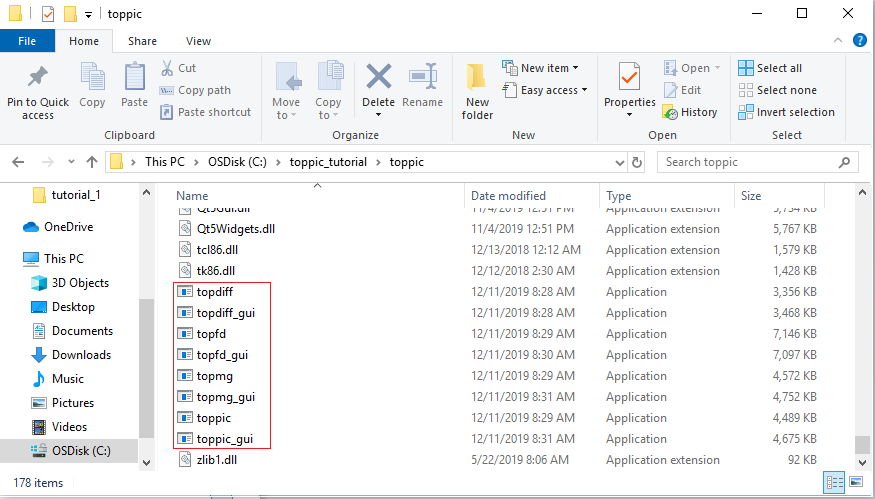
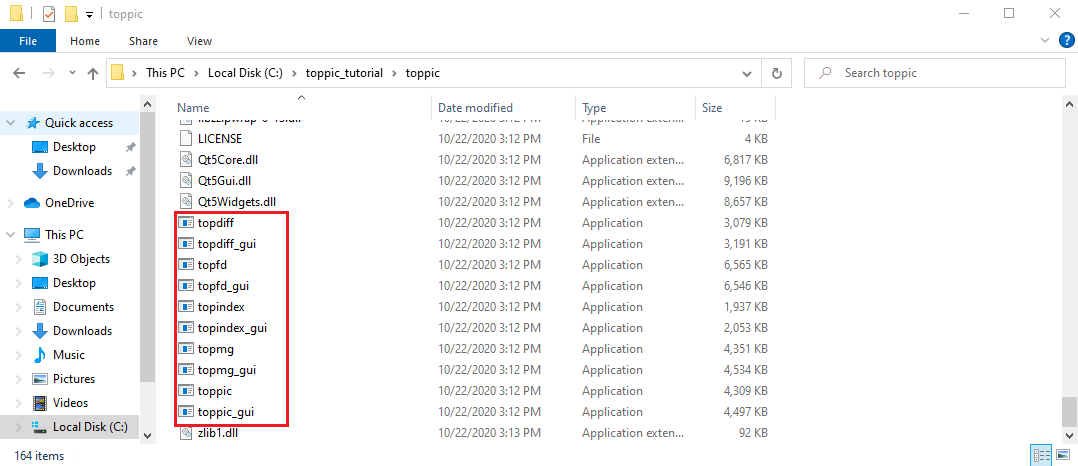
added topfd and topindex information

Changed region(s): [[0.0, 0.0, 1.0, 1.0], [0.8331, 0.3605, 0.864, 0.4206], [0.3394, 0.3605, 0.3703, 0.3906]]

diff --git a/tutorial.html b/tutorial.html
@@ -142,6 +142,52 @@
            style="border: #00008B 1px solid;"/></p>
       </p>
 
+      <h4 class="sectionTitle">4.2.1 Index file generation</h4>
+      <p>We use <b>TopIndex</b> to generate index files from the protein database. It will speed up the processing time of TopPIC and TopMG.</p>
+      <ol class="textList">
+        <li> Double click the executable file <code>topindex_gui.exe</code> in the folder
+          <code>C:\toppic_tutorial\toppic</code>.</li>
+        <li> Add the file <code>c:\toppic_tutorial\tutorial_1\uniprot-st.fasta</code>.</li>
+        <li> Select <code>C57</code> as the fixed modification. </li>
+        <li> Check the checkbox <code>Decoy database</code>. </li>
+        <li> Click to the button "Start" to generate index files.</li>
+      </ol>
+      <p>
+        The screenshot of <code>topindex_gui</code> is shown below.
+      </p>
+      <p><img src="./images/topindex_1.png" height="400" width="600"
+           style="border: #00008B 1px solid;"/>
+      </p>
+      <p>
+          TopIndex generates a folder <code>C:\toppic_tutorial\tutorial_1\uniprot-st.fasta_idx</code> containing multiple index files:
+          <ol class="textList">
+            <li>Eight files containing index for proteins without PTM:
+              <pre>C:\toppic_tutorial\tutorial_1\uniprot-st.fasta_idx\zero_ptm_term_index_C57_N_NME_NMEA_MA_FILE_15_decoy0</pre>
+              <pre>C:\toppic_tutorial\tutorial_1\uniprot-st.fasta_idx\zero_ptm_term_index_C57_N_NME_NMEA_MA_FILE_15_decoy1</pre>
+              <pre>C:\toppic_tutorial\tutorial_1\uniprot-st.fasta_idx\zero_ptm_rev_term_index_C57_N_NME_NMEA_MA_FILE_15_decoy0</pre>
+              <pre>C:\toppic_tutorial\tutorial_1\uniprot-st.fasta_idx\zero_ptm_rev_term_index_C57_N_NME_NMEA_MA_FILE_15_decoy1</pre>
+              <pre>C:\toppic_tutorial\tutorial_1\uniprot-st.fasta_idx\zero_ptm_rev_diag_index_C57_N_NME_NMEA_MA_FILE_15_decoy0</pre>
+              <pre>C:\toppic_tutorial\tutorial_1\uniprot-st.fasta_idx\zero_ptm_rev_diag_index_C57_N_NME_NMEA_MA_FILE_15_decoy1</pre>
+              <pre>C:\toppic_tutorial\tutorial_1\uniprot-st.fasta_idx\zero_ptm_diag_index_C57_N_NME_NMEA_MA_FILE_15_decoy0</pre>
+              <pre>C:\toppic_tutorial\tutorial_1\uniprot-st.fasta_idx\zero_ptm_diag_index_C57_N_NME_NMEA_MA_FILE_15_decoy1</pre></li>
+            <li>Eight files containing index for proteins with one PTM:
+              <pre>C:\toppic_tutorial\tutorial_1\uniprot-st.fasta_idx\one_ptm_term_index_C57_N_NME_NMEA_MA_FILE_15_decoy0</pre>
+              <pre>C:\toppic_tutorial\tutorial_1\uniprot-st.fasta_idx\one_ptm_term_index_C57_N_NME_NMEA_MA_FILE_15_decoy1</pre>
+              <pre>C:\toppic_tutorial\tutorial_1\uniprot-st.fasta_idx\one_ptm_rev_term_index_C57_N_NME_NMEA_MA_FILE_15_decoy0</pre>
+              <pre>C:\toppic_tutorial\tutorial_1\uniprot-st.fasta_idx\one_ptm_rev_term_index_C57_N_NME_NMEA_MA_FILE_15_decoy1</pre>
+              <pre>C:\toppic_tutorial\tutorial_1\uniprot-st.fasta_idx\one_ptm_rev_diag_index_C57_N_NME_NMEA_MA_FILE_15_decoy0</pre>
+              <pre>C:\toppic_tutorial\tutorial_1\uniprot-st.fasta_idx\one_ptm_rev_diag_index_C57_N_NME_NMEA_MA_FILE_15_decoy1</pre>
+              <pre>C:\toppic_tutorial\tutorial_1\uniprot-st.fasta_idx\one_ptm_diag_index_C57_N_NME_NMEA_MA_FILE_15_decoy0</pre>
+              <pre>C:\toppic_tutorial\tutorial_1\uniprot-st.fasta_idx\one_ptm_diag_index_C57_N_NME_NMEA_MA_FILE_15_decoy1</pre></li>
+            <li>Two files containing index for proteins with multiple PTMs:
+              <pre>C:\toppic_tutorial\tutorial_1\uniprot-st.fasta_idx\multi_ptm_index_C57_N_NME_NMEA_MA_FILE_15_decoy0</pre>
+              <pre>C:\toppic_tutorial\tutorial_1\uniprot-st.fasta_idx\multi_ptm_index_C57_N_NME_NMEA_MA_FILE_15_decoy1</pre></li></ol>
+      </p>
+      <p>
+        The output files and folders can be downloaded
+        <a href="./data_files/tutorial-1-index.zip">here</a>.
+        <!--The running time of TopFD is about 6 minutes. -->
+      </p>
       <h4 class="sectionTitle">4.3 File format conversion</h4>
 
       <p>We use <b>MSConvertGUI</b> to convert the raw files st_1.raw and st_2.raw to mzML
@@ -344,7 +390,25 @@
 
       <h4 class="sectionTitle">4.6 Data analysis using the command line interface</h4>
 
-      <h4>4.6.1 Mass spectral deconvolution</h4>
+      <h4>4.6.1 Index files generation</h4>
+      <p>We use <b>topindex</b> to generate index files from the protein database <code>uniprot-st.fasta</code> 
+        to speed up the processing of TopPIC and TopMG.
+      </p>
+
+      <h4>File locations</h4>
+      <ol class="textList">
+        <li>Executable file: <pre>C:\toppic_tutorial\toppic\topindex.exe</pre></li>
+        <li>Input mzML file: <pre>C:\toppic_tutorial\tutorial_1\uniprot-st.fasta</pre></li>
+      </ol>
+      <h4>Commands</h4>
+      <div class="command-container" id="cmd1Container">
+        <pre id="cmd1">cd c:\toppic_tutorial\tutorial_1</pre><button class="copyBtn" onclick="copyToClipboard('cmd1')">Copy</button>
+      </div>
+      <div class="command-container" id="cmd2Container">
+        <pre id="cmd2">..\toppic\topindex -f C57 -d uniprot-st.fasta </pre><button class="copyBtn" onclick="copyToClipboard('cmd2')">Copy</button>
+      </div>
+
+      <h4>4.6.2 Mass spectral deconvolution</h4>
 
       <p>We use <b>topfd</b> for top-down mass spectral deconvolution.</p>
 
@@ -366,8 +430,7 @@
     <p>The screenshot below shows the console output of the above command.</li>
     <p><img src="" height="250" width="500" border="1.5"/></p>
     -->
-
-      <h4>4.6.2 Mass spectral identification using TopPIC</h4>
+      <h4>4.6.3 Mass spectral identification using TopPIC</h4>
 
       <p>We use <b>toppic</b> to search the MS/MS spectra in <code>st_1_ms2.msalign</code>
         and <code>st_2_ms2.msalign</code>
@@ -377,7 +440,7 @@
       <ol class="textList">
         <li>Executable file: <pre>C:\toppic_tutorial\toppic\toppic.exe</pre></li>
         <li>Input protein database file:
-          <pre>C:\toppic_tutorial\tutorial_1\unprot-st.fasta</pre></li>
+          <pre>C:\toppic_tutorial\tutorial_1\uniprot-st.fasta</pre></li>
         <li>Input MS/MS msalign files: <pre>C:\toppic_tutorial\tutorial_1\st_1_ms2.msalign</pre>
           <pre>C:\toppic_tutorial\tutorial_1\st_2_ms2.msalign</pre>
         </li>
@@ -524,7 +587,7 @@
         <ol class="textList">
           <li>Executable file: <pre>C:\toppic_tutorial\toppic\topmg.exe</pre></li>
           <li>Input protein database file:
-            <pre>C:\toppic_tutorial\tutorial_2\unprot-st.fasta</pre></li>
+            <pre>C:\toppic_tutorial\tutorial_2\uniprot-st.fasta</pre></li>
           <li>Input MS/MS msalign file: <pre>C:\toppic_tutorial\tutorial_2\st_1_ms2.msalign</pre></li>
           <li>MS feature files:
           <pre>C:\toppic_tutorial\tutorial_2\st_1_ms1.feature</pre>
@@ -711,7 +774,7 @@
         <ol class="textList">
           <li>Executable file: <pre>C:\toppic_tutorial\toppic\toppic.exe</pre></li>
           <li>Input protein database file:
-            <pre>C:\toppic_tutorial\tutorial_3\unprot-ecoli.fasta</pre></li>
+            <pre>C:\toppic_tutorial\tutorial_3\uniprot-ecoli.fasta</pre></li>
           <li>Input MS/MS msalign files: 
 		  <pre>C:\toppic_tutorial\tutorial_3\ecoli_1_ms2.msalign</pre>
 		  <pre>C:\toppic_tutorial\tutorial_3\ecoli_2_ms2.msalign</pre></li>
@@ -740,7 +803,7 @@
         <ol class="textList">
           <li>Executable file: <pre>C:\toppic_tutorial\toppic\topdiff.exe</pre></li>
           <li>Input protein database file:
-          <pre>C:\toppic_tutorial\tutorial_3\unprot-ecoli.fasta</pre></li>
+          <pre>C:\toppic_tutorial\tutorial_3\uniprot-ecoli.fasta</pre></li>
           <li>Input MS/MS msalign files: 
           <pre>C:\toppic_tutorial\tutorial_3\ecoli_1_ms2.msalign</pre>
           <pre>C:\toppic_tutorial\tutorial_3\ecoli_2_ms2.msalign</pre>
@@ -757,7 +820,7 @@
 
         </div>
         <div class="command-container" id="cmd10Container">
-          <pre id="cmd10">..\toppic\topdiff -f C57 unprot-ecoli.fasta ecoli_1_ms2.msalign ecoli_2_ms2.msalign</pre>
+          <pre id="cmd10">..\toppic\topdiff -f C57 uniprot-ecoli.fasta ecoli_1_ms2.msalign ecoli_2_ms2.msalign</pre>
           <button class="copyBtn" onclick="copyToClipboard('cmd10')">Copy</button>
         </div>
 		

diff --git a/manual.html b/manual.html
@@ -118,8 +118,17 @@
       <p><code>-w [ --precursor-window ] &lt;a positive number&gt;</code></p>
       <p>Set the precursor isolation window size. The default value is 3.0 m/z.</p>
 
+      <p><code>-n [ --env-cnn ]</code></p>
+      <p>Use EnvCNN as the scoring function of isotopic envelopes.</p>
+
       <p><code>-o [ --missing-level-one ]</code></p>
       <p>Specify that the input file does not contain MS1 spectra.</p>
+
+      <p><code>-u [ --thread-number ] &lt;a positive integer&gt;</code></p>
+      <p>Number of threads used in spectral deconvolution. Default value: 1.</p>
+
+      <p><code>-g [ --skip-html-folder ] </code></p>
+      <p>Skip the generation of html files for the visualization of spectra and identifications.</p>
 
       <h4>Examples</h4>
       <p>
@@ -127,10 +136,10 @@
       spectra_ms2.msalign, spectra_ms1.feature, spectra_ms2.feature, spectra_feature.xml.
 		</p>
       <p><code> topfd spectra.mzML </code></p>
-      
+
       <p>
       Deconvolute two centroid data files spectra1.mzML and spectra2.mzML and 
-      output three files for each input data file.
+      output four files for each input data file.
 		</p>
       <p><code> topfd spectra1.mzML spectra2.mzML </code></p>
       
@@ -139,6 +148,16 @@
 		</p>
 		
       <p><code> topfd *.mzML </code></p>
+
+      <p>
+        Deconvolute a centroid data file spectra.mzML and do not generate html folder for visualization.  
+      </p>
+        <p><code> topfd -g spectra.mzML </code></p>
+
+      <p>
+        Deconvolute a centroid data file spectra.mzML using 4 threads and EnvCNN scoring function.
+      </p>
+        <p><code> topfd -u 4 -n spectra.mzML </code></p>
 
       <p>
       Deconvolute a centroid data file spectra.mzML that does not contain MS1
@@ -735,6 +754,70 @@
       </p>
       <p><code> topdiff -f C57 -t topmg proteins.fasta spectra1_ms2.msalign spectra2_ms2.msalign </code></p>
       
+      <h3>6 TopIndex</h3>
+
+      <h4>6.1 Input</h4>
+      <ul>
+        <li>A protein database file in the FASTA format</li>
+      </ul>
+
+      <h4>6.2 Output</h4>
+      <p>TopIndex outputs a folder containing protein index files from a protein database file. </p>
+      
+      <h4>6.3 Command line usage</h4>
+      <p>To run TopIndex, open a terminal window and run the following command.</p>
+      <p><code>topindex [options] database-file-name </code></p>
+
+      <h4>Options</h4>
+      <p><code>-h [ --help ]</code></p>
+      <p>Print the help message.</p>
+     
+      <p><code>-f [ --fixed-mod ] &lt;C57|C58|a fixed modification file&gt; </code></p>
+      <p>Set fixed modifications. Three available options: C57, C58, or the name of
+        a text file specifying fixed modifications (see an <a
+          target="_blank" href="example_files/fixed_mods.txt">example file</a>).
+        When C57 is selected, carbamidomethylation on cysteine is the only fixed
+        modification.  When C58 is selected, carboxymethylation on cysteine is the
+        only fixed modification.</p></p>
+      
+      <p><code>-n [ --n-terminal-form ] &lt;a list of allowed N-terminal forms&gt;</code></p>
+      <p>Set N-terminal forms of proteins. Four N-terminal forms can be selected:
+        NONE, NME, NME_ACETYLATION, and M_ACETYLATION.  NONE stands for no
+        modifications, NME for N-terminal methionine excision, NME_ACETYLATION for
+        N-terminal acetylation after the initiator methionine is removed, and
+        M_ACETYLATION for N-terminal methionine acetylation.  When multiple forms
+        are allowed, they are separated by commas. Default value:
+        NONE,M_ACETYLATION,NME,NME_ACETYLATION.</p>
+      
+      <p><code>-d [ --decoy ]</code></p>
+      <p>Use a shuffled decoy protein database to estimate spectrum and
+        proteoform level FDRs.
+        When -d is chosen, a shuffled decoy database is automatically
+        generated and appended to the target database before database search, and
+        FDR rates are estimated using the target-decoy approach.</p>
+      
+      <p><code>-e [ --mass-error-tolerance ] &lt;a positive integer&gt;</code></p> 
+      <p>Set the error tolerance for precursor and fragment masses in ppm. Default value: 15.</p>
+      
+      <p><code>-u [ --thread-number ] &lt;a positive integer&gt;</code></p> 
+      <p>Set the number of threads used in the computation. Default value: 1. The maximum number of threads is determined by the CPU 
+        and memory of the computer used for computation. About 4 GB memory is required for each thread. If the computer has 16 GB memory
+        and a CPU with 8 cores, the maximum number of threads is 4 because about 16 GB memory is needed for 4 threads.</p>
+
+      <h4>Examples</h4>
+      <p> Generate index files from protein database file uniprot-st.fasta using default parameters. The output folder name is uniprot-st.fasta_idx.  
+      </p>
+      <p><code> topindex uniprot-st.fasta</code></p>
+
+      <p> Generate index files from protein database file protein.fasta using carboxymethylation as fixed modification, and 
+      N-terminal methionine excision and N-terminal methionine acetylation as N-terminal form. The output folder name is protein.fasta_idx.  
+      </p>
+      <p><code> topindex -f C58 -n NME,M_ACETYLATION protein.fasta</code></p>
+
+      <p> Generate index files from protein database file protein.fasta using decoy database, mass error tolerance of 10, and 
+        4 threads for speedup. The output folder name is protein.fasta_idx.  
+        </p>
+        <p><code> topindex -d -e 10 -u 4 protein.fasta</code></p>
     </div>
   </div>
 </div>

diff --git a/index.html b/index.html
@@ -101,6 +101,11 @@ src="https://www.googletagmanager.com/gtag/js?id=UA-109009447-1"></script>
         proteoforms and finds differentially expressed proteoforms by 
         using identifications of top-down mass spectrometry data of several protein samples. 
         </li>
+        <li>
+          <b>TopIndex</b> (Top-down mass spectrometry-based Indexing of proteins) generates and stores the indexed
+          protein database in files based on the number of PTMs, which are used for computing match scores between the deconvoluted mass spectrum and the candidate proteins. 
+          If TopIndex is used as a preprocessing step, the processing time of TopPIC or TopMG becomes much shorter.  
+          </li>
       </ul>
 
       <h3>Release notes</h3>
